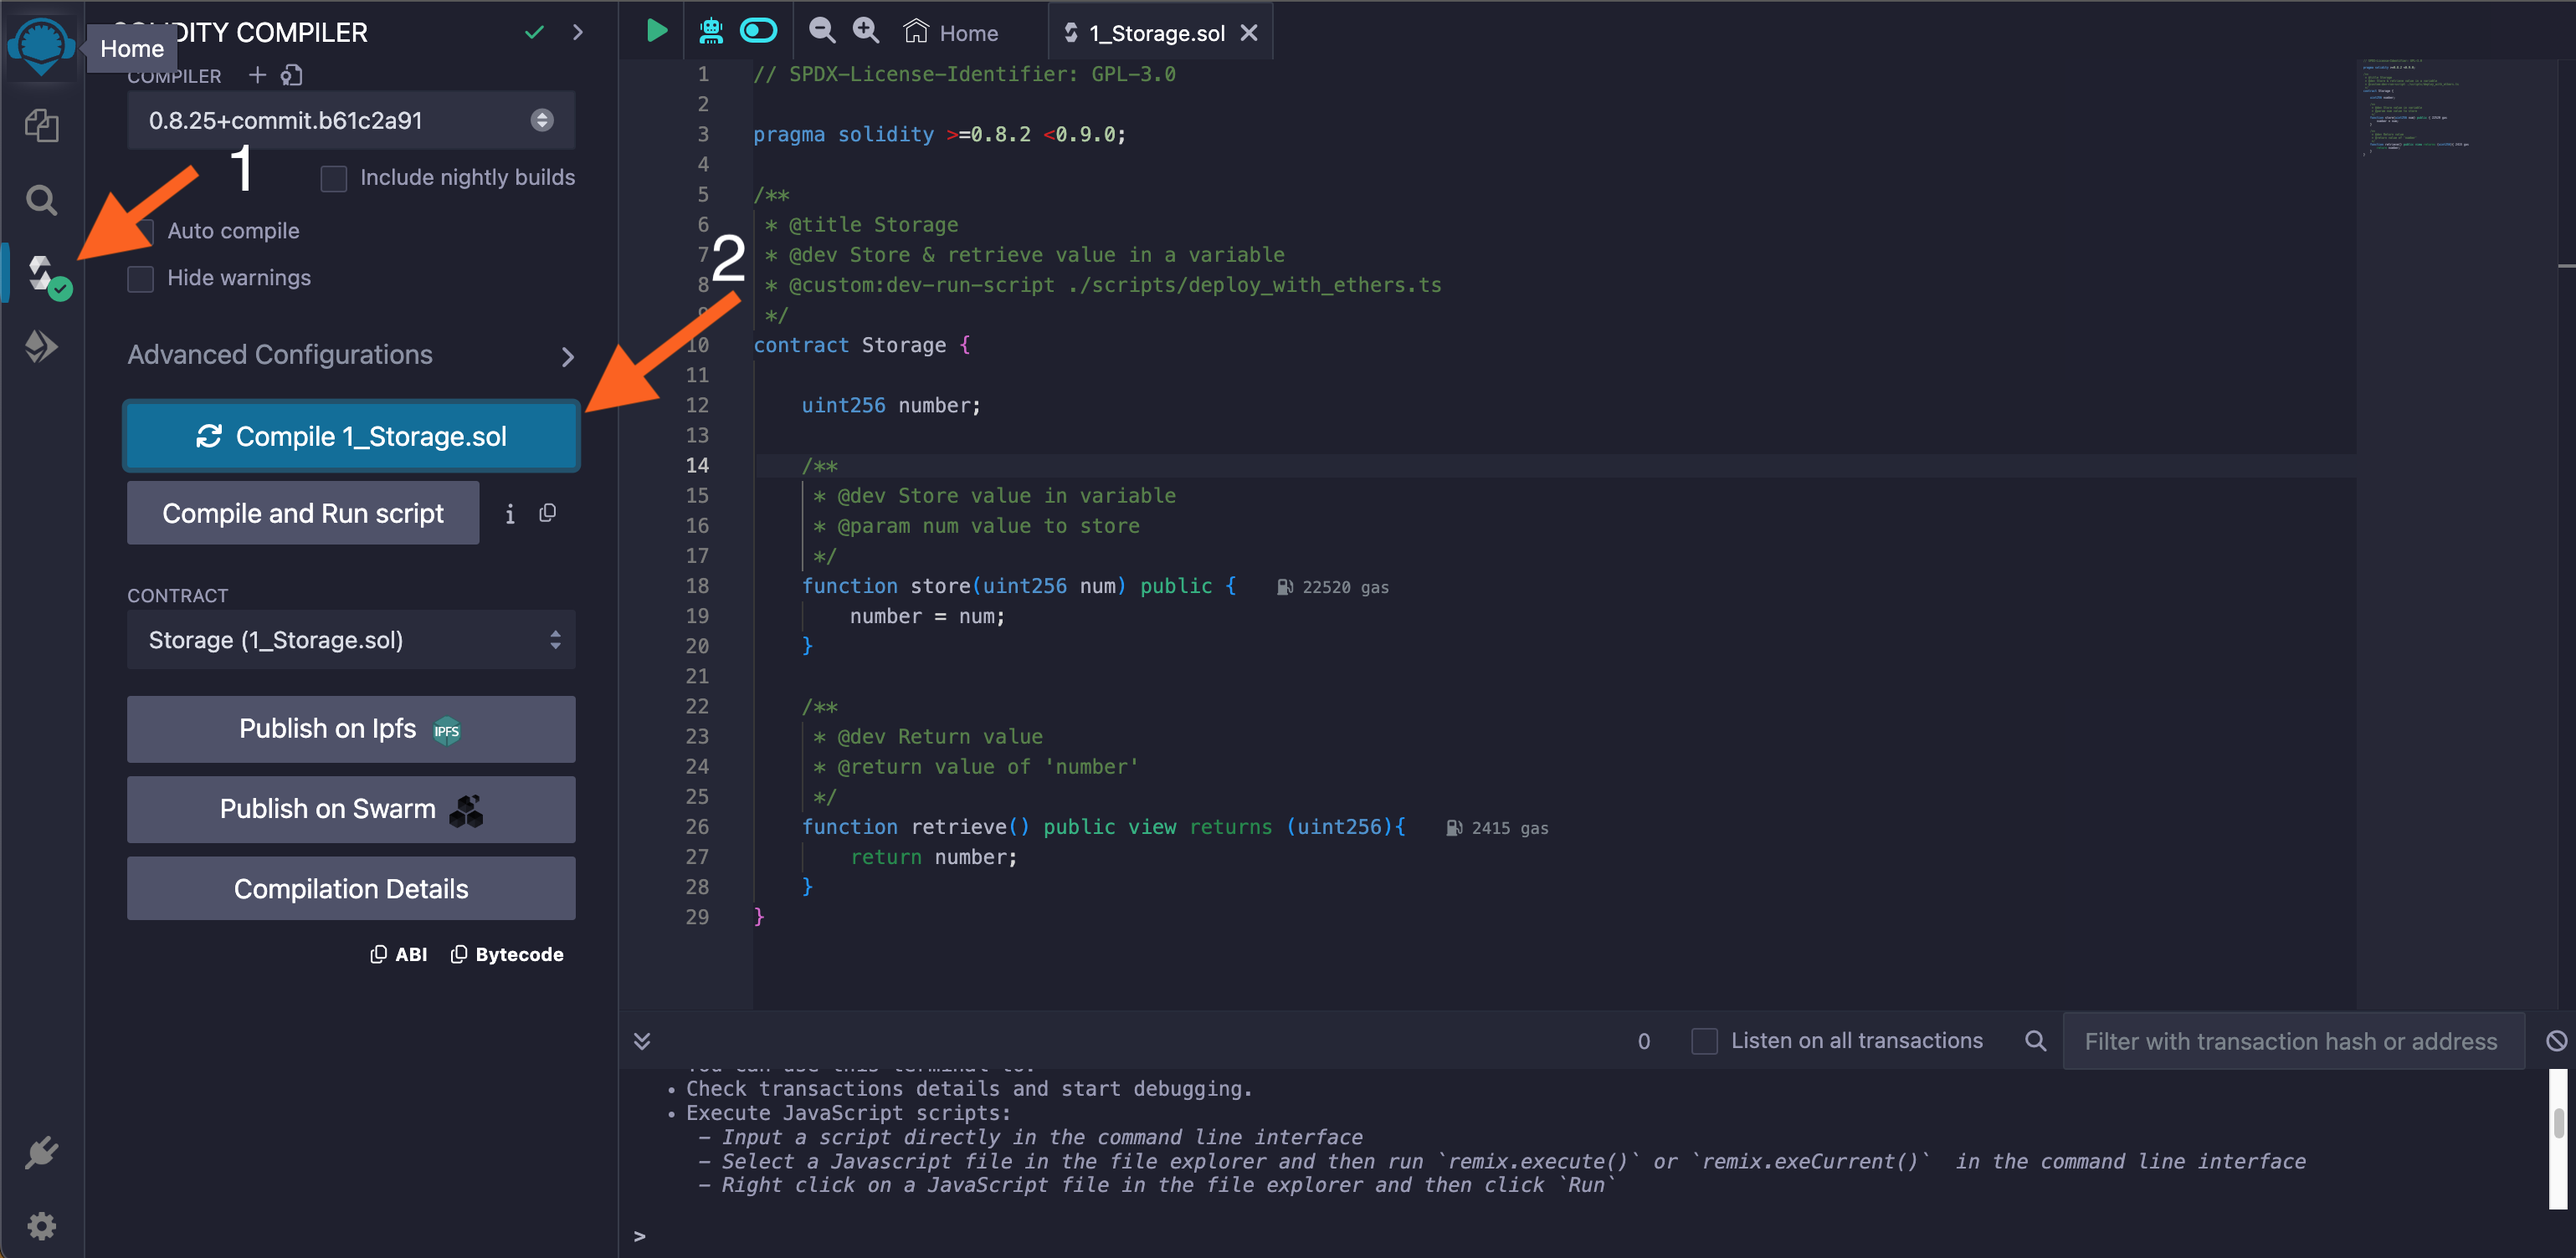
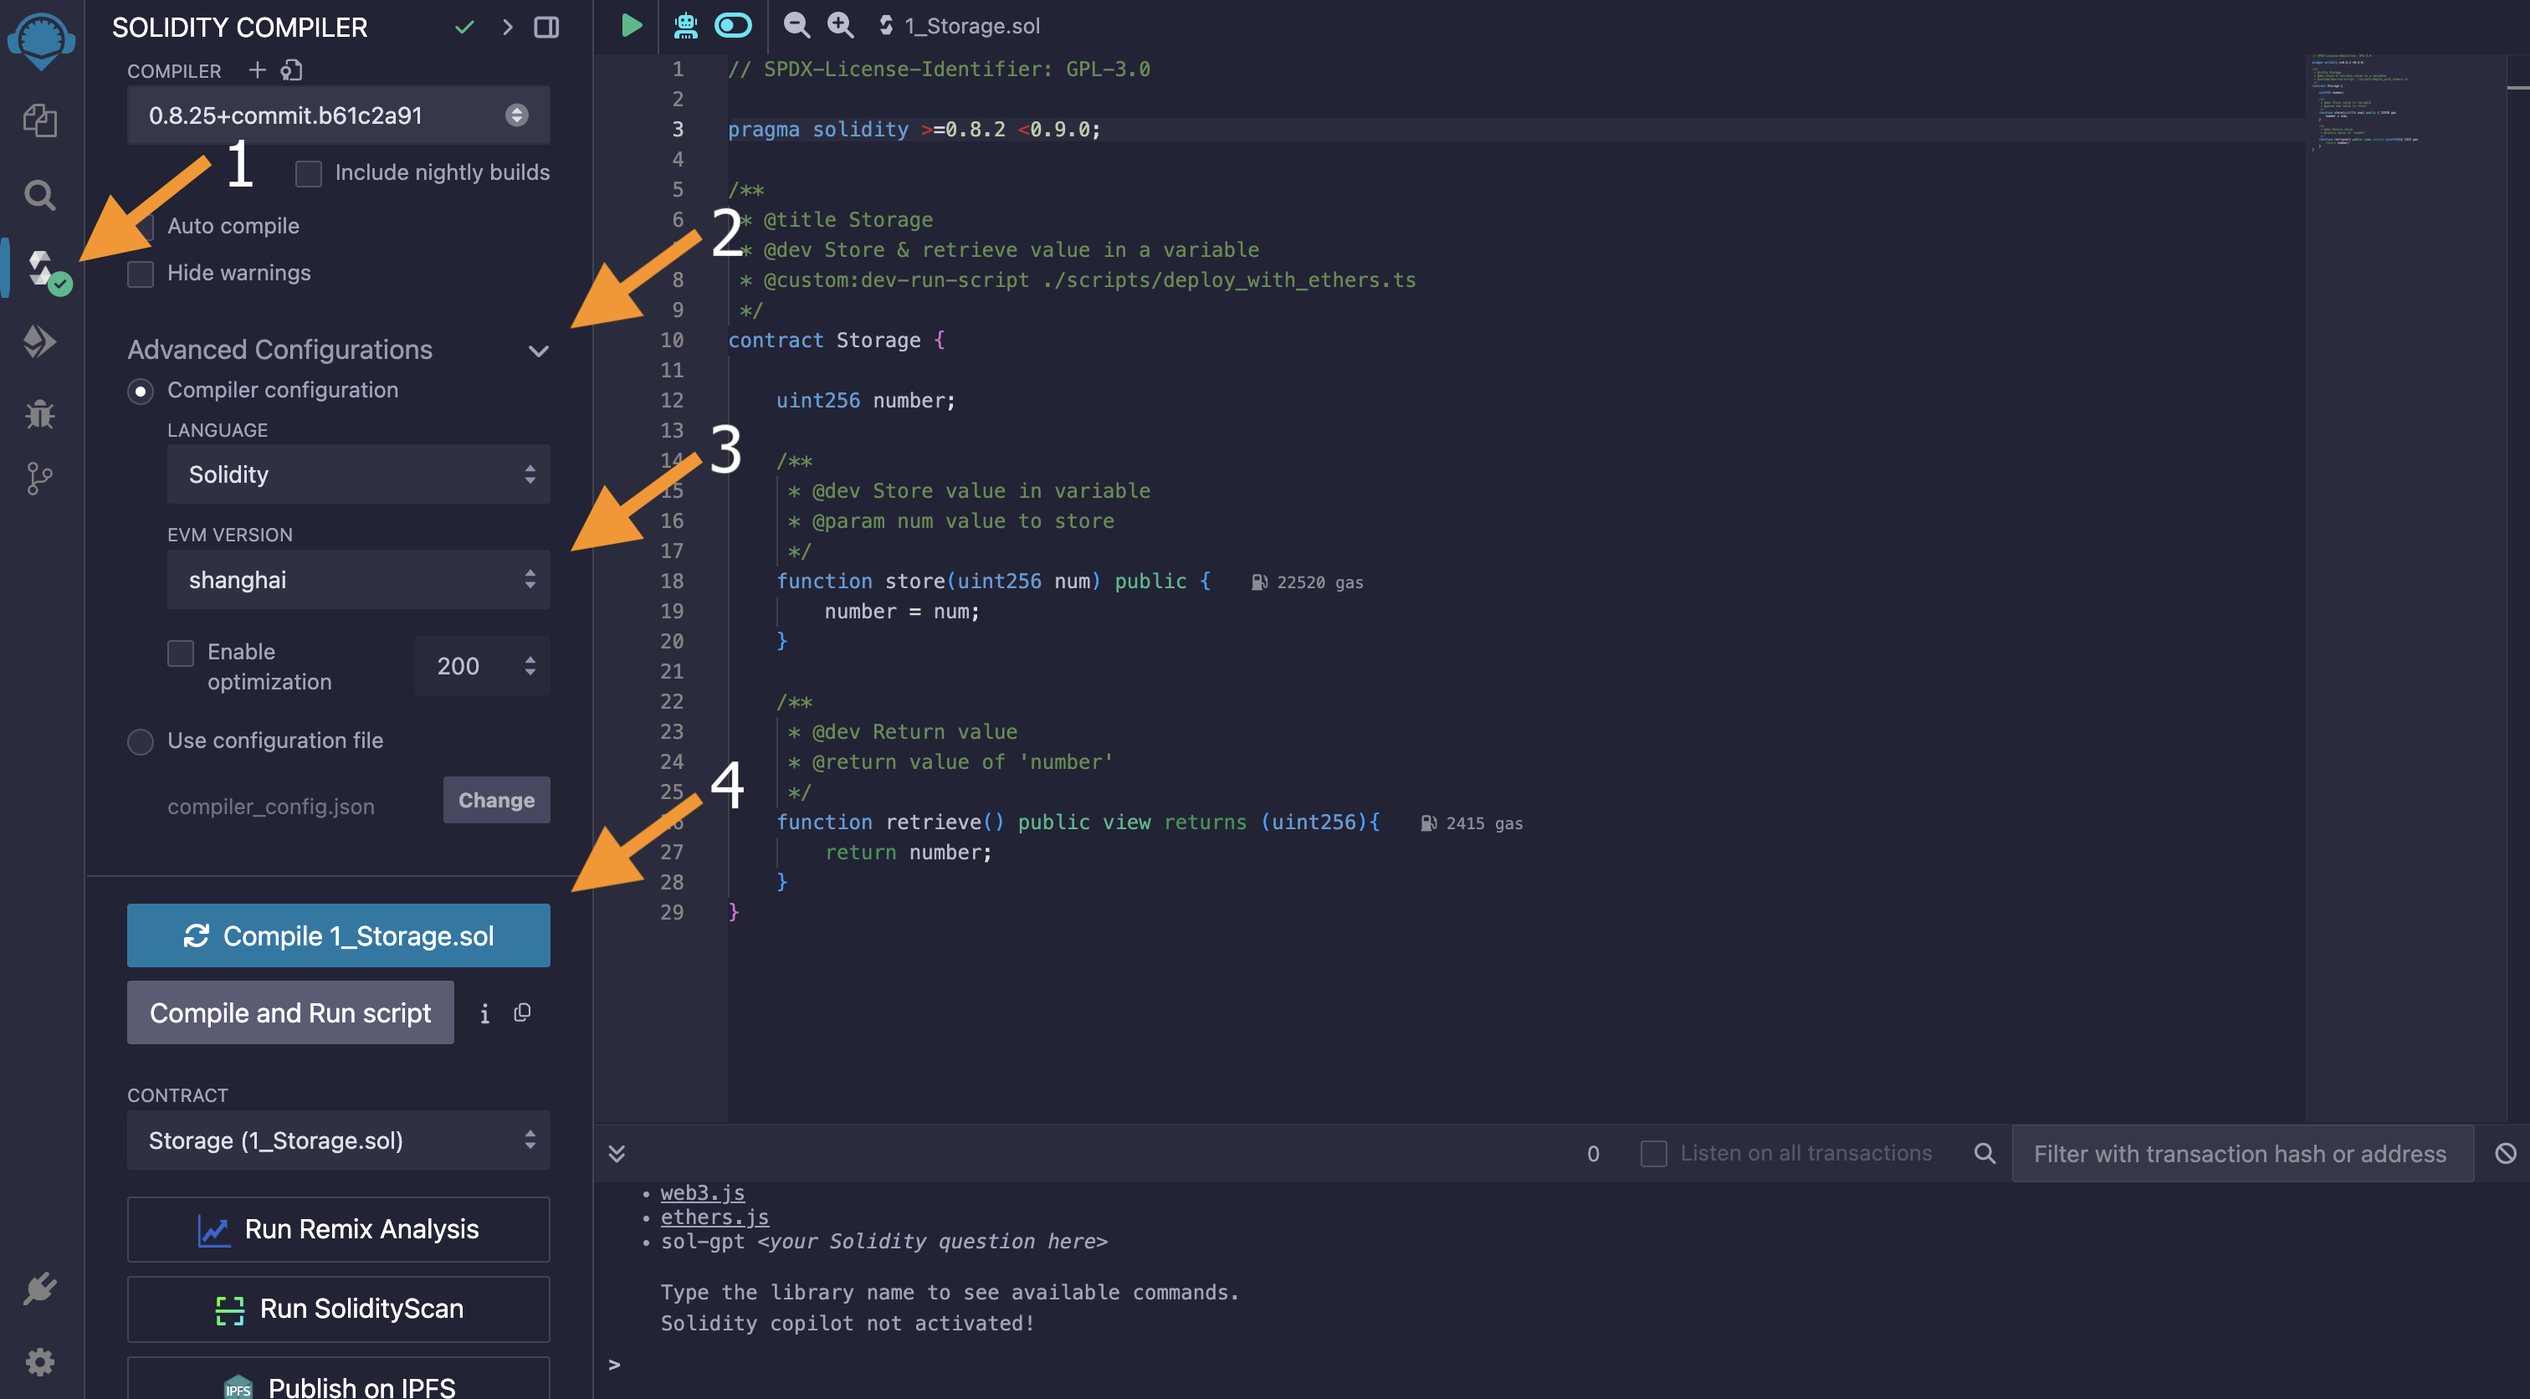
Init

diff --git a/developer-documentation/deployment-guide/deploy-a-smart-contract-using-remix.md b/developer-documentation/deployment-guide/deploy-a-smart-contract-using-remix.md
@@ -15,11 +15,15 @@ Select contracts folder from the left sidebar and click on the `1_Storage.sol` f
 
 ## Step 2: Compile the Smart Contract
 
-Click on the `Solidity Compiler` tab from the left sidebar. You should see the following screen:
+Click on the `Solidity Compiler` tab from the left sidebar. You should see something like the following:
 
 ![Remix-2](/.gitbook/assets/remix/2.png)
 
-Click on the `Compile 1_Storage.sol` button to compile the smart contract. Compiling the smart contract will generate the ABI and Bytecode required for deploying the smart contract.
+First, click on the advanced configurations section and then select `Shanghai` as the EVM version. After these, click on the `Compile 1_Storage.sol` button to compile the smart contract. Compiling the smart contract will generate the ABI and Bytecode required for deploying the smart contract.
+
+> Normally, it's not necessary to select Shanghai as the EVM version. However, Citrea does not support Cancun update at the moment. 
+>
+> If you try to deploy a more complex contract using default configs, there might be some opcode issues. That's why we advise you to pick Shanghai version for now.
 
 ## Step 3: Open the Deploy & Run Transactions Tab
 
